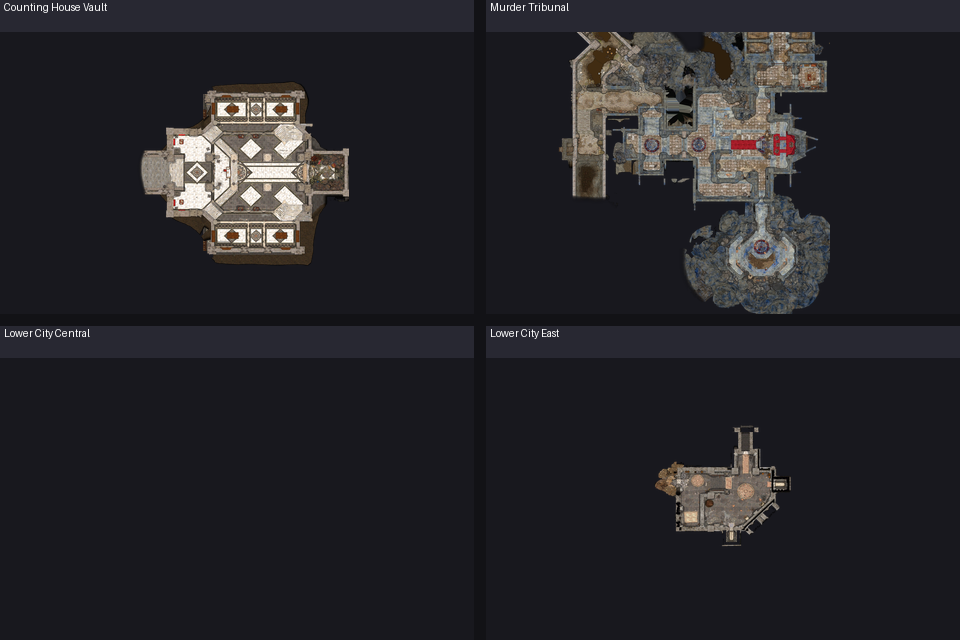
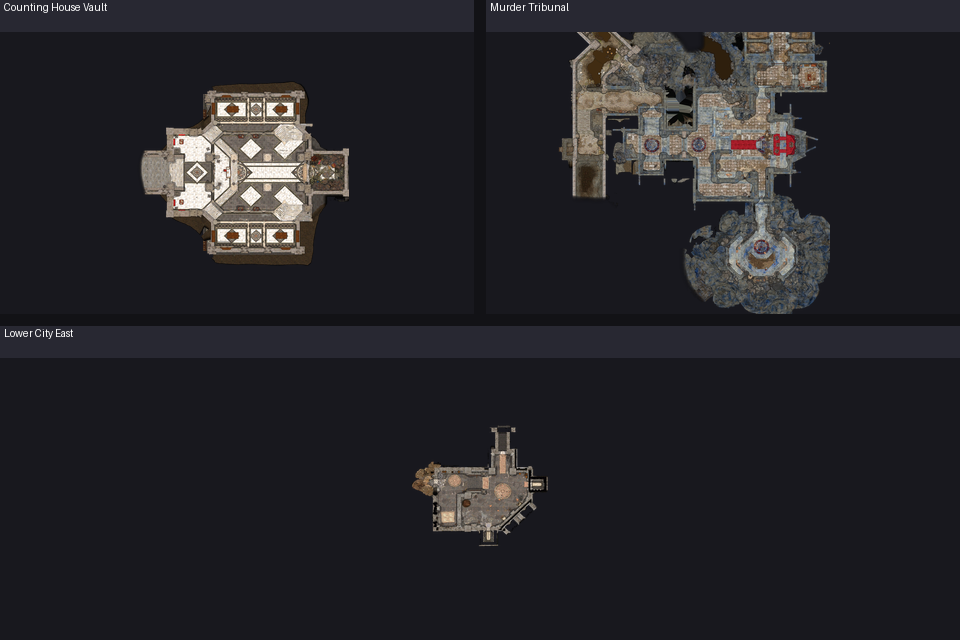
Place Figaro's doppelgangers at his shop; drop the Lower City Central zone
The five doppelgangers' cached positions are a holding spot (five in a
row, 1.6 m apart, on a 'tools_basements' minimap patch), which is what
the art-less Lower City Central zone was framing. They are now pinned,
approximately, at Figaro's cosmetics shop on the Lower City map, where
the Follow the Murders quest sends the player, and the zone is gone.

Claude-Session: https://claude.ai/code/session_015VpxE3pReZx8mE726ypbbb

diff --git a/tools/render_multi_zone_map.py b/tools/render_multi_zone_map.py
@@ -569,6 +569,8 @@ ACT3_REGION_DEFINITIONS = {
         ],
     },
     # The outlying Lower City zones, shown as their own tab so the main
+    # (Lower City Central's zone was dropped: it only framed the holding
+    # spot of Figaro's doppelgangers, which pin_overrides.json now places.)
     # district above can fill its map. Pins here still belong to the
     # Lower City tab's checks (generate_pack.MAP_SPLITS).
     "lower_city_areas": {
@@ -594,22 +596,13 @@ ACT3_REGION_DEFINITIONS = {
                 "cell": (1, 0, 1, 1),
             },
             {
-                "title": 'Lower City Central',  # 5 kills
-                "level": "CTY_Main_A",
-                "char_building": ["*"],
-                "patch_building": ["*"],
-                "world_bbox_override": (-1642.8, 222.4, -1552.8, 312.4),
-                "world_bbox_filter": (-1607.9, 252.3, -1587.7, 282.6),
-                "cell": (0, 1, 1, 1),
-            },
-            {
                 "title": 'Lower City East',  # 4 kills
                 "level": "CTY_Main_A",
                 "char_building": ["*"],
                 "patch_building": ["*"],
                 "world_bbox_override": (1173.8, 751.4, 1263.8, 841.4),
                 "world_bbox_filter": (1197.3, 781.7, 1240.3, 811.1),
-                "cell": (1, 1, 1, 1),
+                "cell": (0, 1, 2, 1),
             },
         ],
     },
